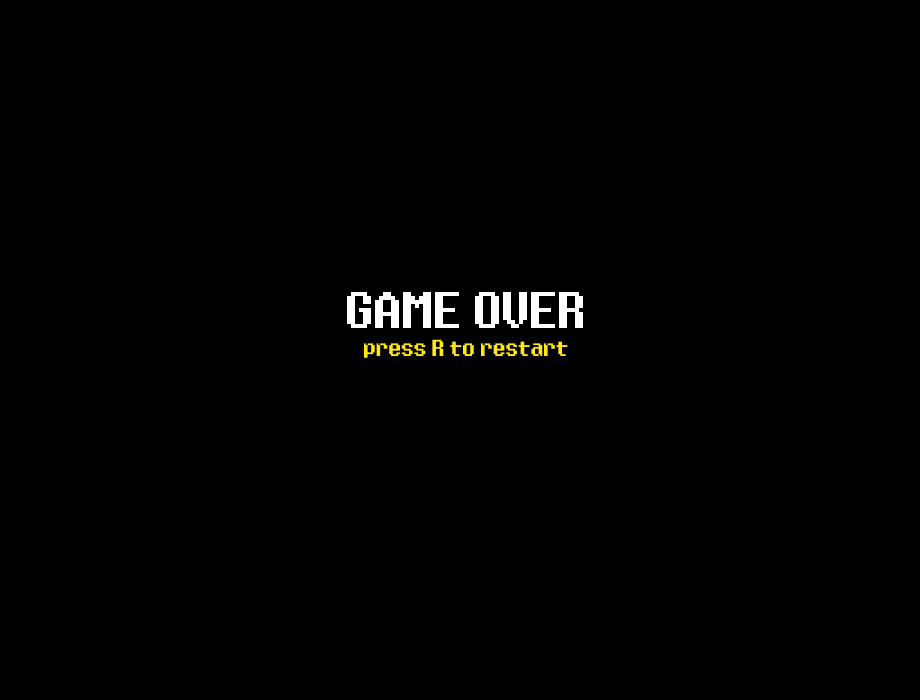
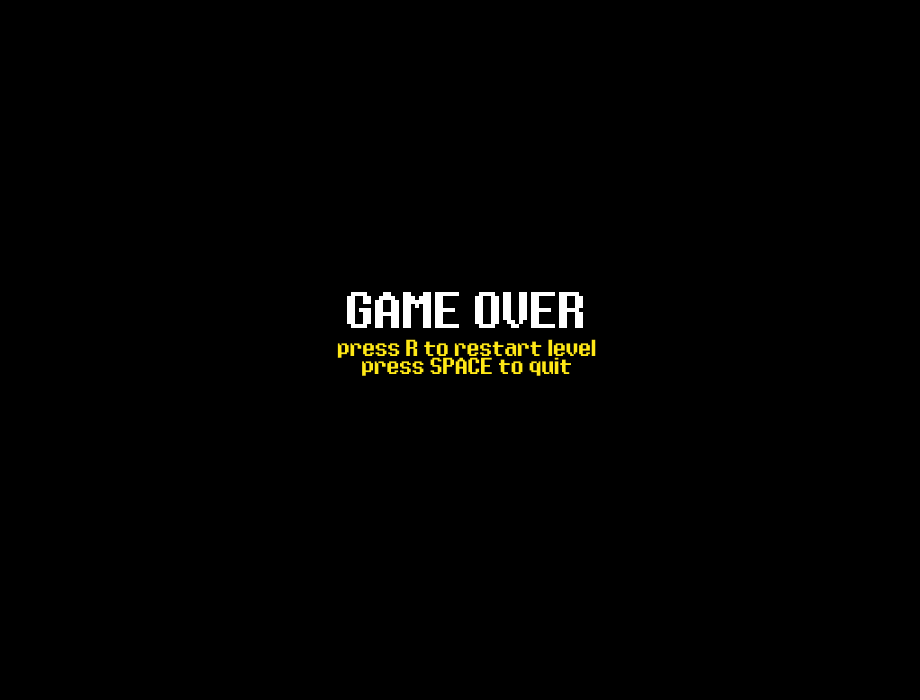
changed game over screen, added functionality for restarting from previous level

Changed region(s): [[0.3652, 0.48, 0.6696, 0.54]]

diff --git a/src/scenes/GameOver.js b/src/scenes/GameOver.js
@@ -6,7 +6,7 @@ class GameOver extends Phaser.Scene{
     preload(){
         
     }
-    create(){
+    create(data){
         this.cameras.main.fadeIn(1000, 0, 0, 0);
         //create animations he
         // this.scene.start('playScene')
@@ -17,11 +17,35 @@ class GameOver extends Phaser.Scene{
         //backstory screen, then go into the play screen 
         document.getElementById('description').innerHTML = '<h2>Menu.js</h2><br>V: Next Scene';
         this.add.image(0, 0, 'gameOverScreen').setOrigin(0, 0);
-        this.swap = this.input.keyboard.addKey('R');
+        this.restart_level = this.input.keyboard.addKey('R');
+        this.goto_title = this.input.keyboard.addKey('SPACE');
+        this.re_level = data.level;
+        this.bgm = data.music;
+        console.log(this.re_level);
     }
     update(){
-        if(Phaser.Input.Keyboard.JustDown(this.swap)){
+        if(Phaser.Input.Keyboard.JustDown(this.restart_level)){
+            switch(this.re_level){
+                case 'first':
+                    this.scene.start('playScene', {restart: true, music: this.bgm});
+                    break;
+                case 'second':
+                    this.scene.start('Level2', {restart: true, music: this.bgm});
+                    break;
+                case 'third' :
+                    this.scene.start('Level3', {restart: true, music: this.bgm});
+                    break;
+                case 'fourth':
+                    this.scene.start('Level4', {restart: true, music: this.bgm});
+                    break;
+                default:
+                    this.scene.start('menuScene');
+                    return;
+            }
+        }
+        if(Phaser.Input.Keyboard.JustDown(this.goto_title)){
             this.scene.start('menuScene');
         }
+
     }
 }

diff --git a/src/scenes/Level2.js b/src/scenes/Level2.js
@@ -117,6 +117,10 @@ class Level2 extends Phaser.Scene{
 
 
         this.bgm = data.music;
+        this.restarted = data.restart; 
+        if(this.restarted){
+            this.bgm.play();
+        }
         this.dash_sfx = this.sound.add('dash_sfx', {loop: false});
         this.dmg_sfx = this.sound.add('take_damage_sfx',{loop: false});
         this.footsteps = this.sound.add('footsteps_sfx',{volume: 0.3, loop: false});
@@ -153,7 +157,7 @@ class Level2 extends Phaser.Scene{
     handlePlayerStairCollision(player){
         console.log("touching stair", this.keyCount);
         if(this.keyCount == 1) { 
-            this.scene.start('Level3', {music: this.bgm});
+            this.scene.start('Level3', {music: this.bgm, restart: false});
         }
     }
     handlePlayerEnemyCollision(player, enemy){
@@ -165,7 +169,7 @@ class Level2 extends Phaser.Scene{
             if(player.health == 0) {
                 this.bgm.stop();
                 this.lose_sfx.play();
-                this.scene.start('goScene');
+                this.scene.start('goScene',{music: this.bgm, level: 'second'});
                 
             }  
             // player.body.setVelocityX(enemy.speed * 2);

diff --git a/src/scenes/Play.js b/src/scenes/Play.js
@@ -1,10 +1,3 @@
-// import Hero from '../prefabs/Hero.js'
-// import Enemy from '../prefabs/Enemy.js'
-// import Weapon from '../prefabs/Weapon.js'
-// import IdleState from '../prefabs/Hero.js'
-// import MoveState from '../prefabs/Hero.js'
-
-// export default class Play extends Phaser.Scene{
 class Play extends Phaser.Scene{  
     constructor(){
         super('playScene');
@@ -158,7 +151,7 @@ class Play extends Phaser.Scene{
     handlePlayerStairCollision(player){
         console.log("touching stair", this.keyCount);
         if(this.keyCount == 1) { 
-            this.scene.start('Level2',{music: this.bgm});
+            this.scene.start('Level2',{music: this.bgm, restart: false});
         }
     }
     handlePlayerEnemyCollision(player, enemy){
@@ -170,7 +163,7 @@ class Play extends Phaser.Scene{
             if(player.health == 0) {
                 this.bgm.stop()
                 this.lose_sfx.play();
-                this.scene.start('goScene');
+                this.scene.start('goScene',{music: this.bgm, level: 'first'});
                 //this.bgm.stop();
             } 
             // player.body.setVelocityX(enemy.speed * 2);

diff --git a/src/scenes/Level4.js b/src/scenes/Level4.js
@@ -134,7 +134,10 @@ class Level4 extends Phaser.Scene{
 
 
         this.bgm = data.music;
-        
+        this.restarted = data.restart;
+        if(this.restarted){
+            this.bgm.play();
+        }
         this.dash_sfx = this.sound.add('dash_sfx', {loop: false});
         this.dmg_sfx = this.sound.add('take_damage_sfx',{loop: false});
         this.footsteps = this.sound.add('footsteps_sfx',{volume: 0.3, loop: false});
@@ -187,7 +190,7 @@ class Level4 extends Phaser.Scene{
             if(player.health == 0) {
                 this.bgm.stop();
                 this.lose_sfx.play();
-                this.scene.start('goScene');
+                this.scene.start('goScene',{music: this.bgm, level: 'fourth'});
             } 
             // player.body.setVelocityX(enemy.speed * 2);
             console.log("player health=",player.health);

diff --git a/src/scenes/Level3.js b/src/scenes/Level3.js
@@ -120,6 +120,10 @@ class Level3 extends Phaser.Scene{
         this.footsteps = this.sound.add('footsteps_sfx',{volume: 0.3, loop: false});
         this.lose_sfx = this.sound.add('lose_sfx',{volume: 0.3, loop: false});
         this.bgm = data.music;
+        this.restarted = data.restart;
+        if(this.restarted){
+            this.bgm.play();
+        }
         
     }
     update(time, delta){
@@ -160,7 +164,7 @@ class Level3 extends Phaser.Scene{
             if(player.health == 0) {
                 this.bgm.stop();
                 this.lose_sfx.play();
-                this.scene.start('goScene');
+                this.scene.start('goScene',{music: this.bgm, level: 'third'});
             } 
             // player.body.setVelocityX(enemy.speed * 2);
             console.log("player health=",player.health);
